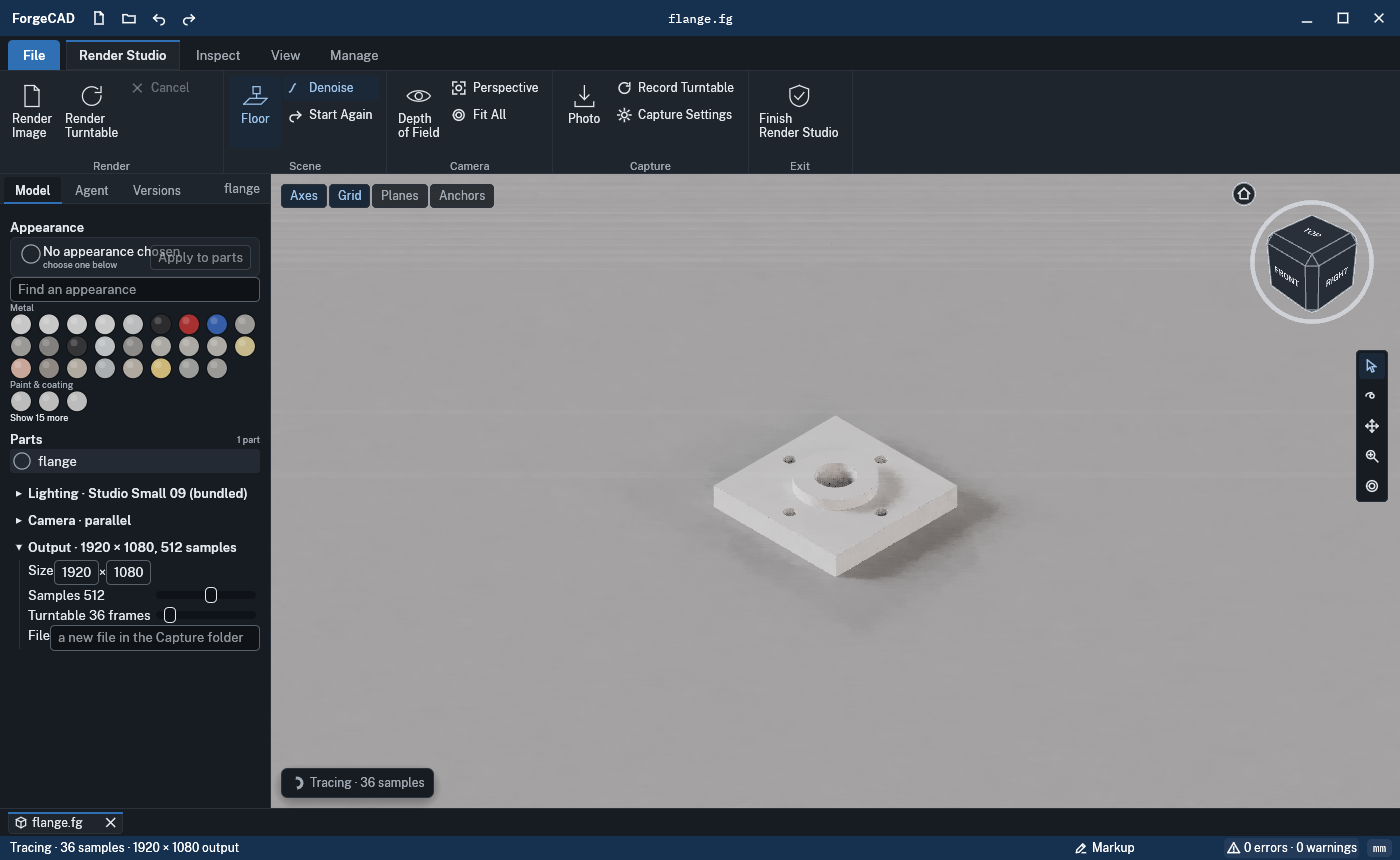
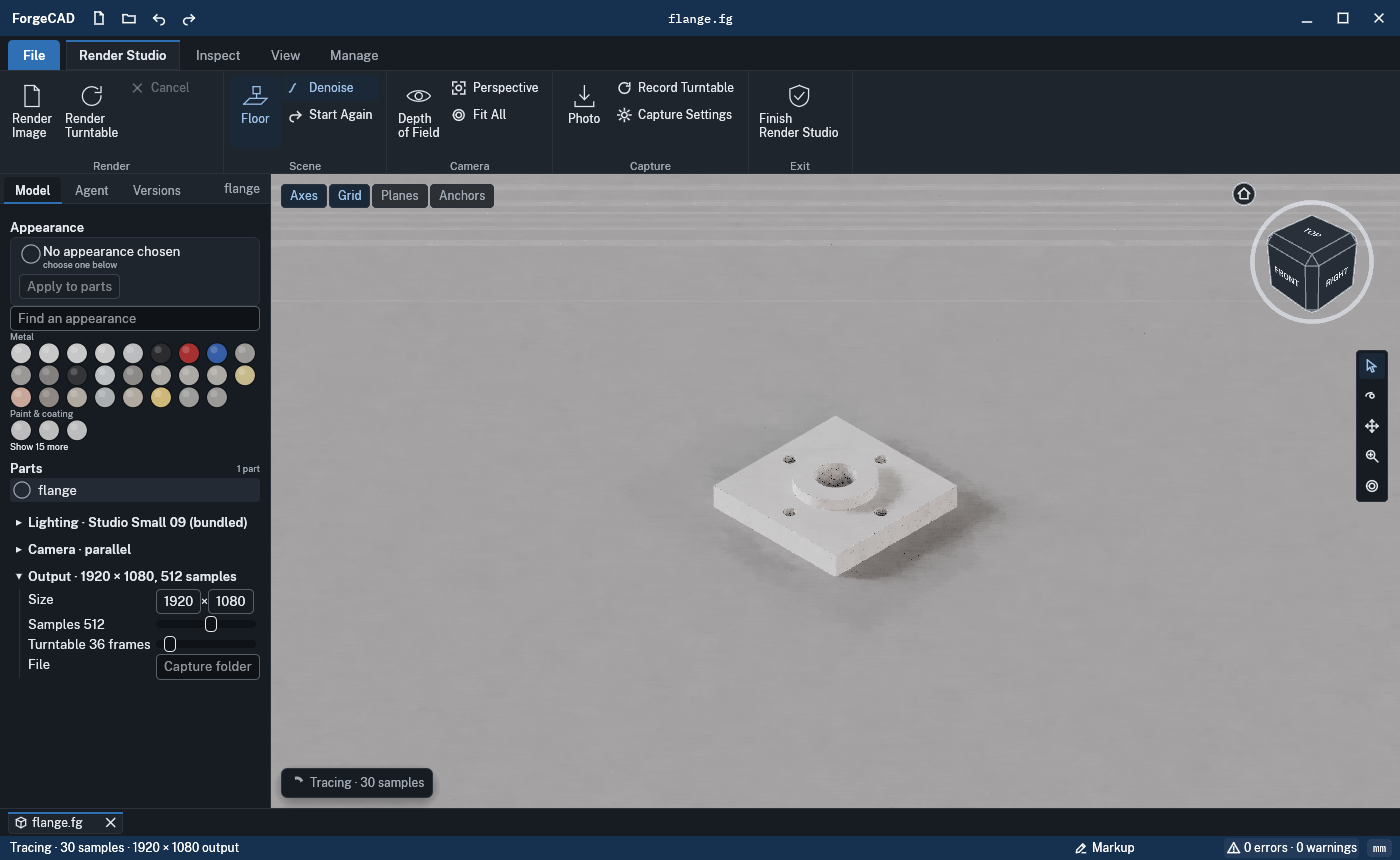
render/studio-polish @67dd85e1 (delta over studio-model 02e52375): Appearance card, Preparing spinner, samples hover, Output labels, live pace grows a quarter at a time; RENDER-STUDIO handoff
Claude-Session: https://claude.ai/code/session_01WJtawwrcJMe9MW7GeYQtHw

Changed region(s): [[0.0, 0.2721, 0.1843, 0.786]]

diff --git a/interface/forge-render/src/shell/studio_env.rs b/interface/forge-render/src/shell/studio_env.rs
@@ -379,9 +379,8 @@ pub(super) fn browser(s: &mut Shell, ui: &mut Ui, r: Rect) -> bool {
                             "Poly Haven HDRIs, CC0; all but the bundled one come from tools/fetch-hdri.sh",
                         );
                     if st.light == lights.len() - 1 {
-                        ui.horizontal(|ui| {
-                            ui.label("File");
-                            ui.text_edit_singleline(&mut st.hdri)
+                        row(ui, "File".into(), |ui| {
+                            ui.add(egui::TextEdit::singleline(&mut st.hdri).desired_width(f32::INFINITY))
                                 .on_hover_text("a Radiance .hdr, equirectangular");
                         });
                     }
@@ -436,8 +435,7 @@ pub(super) fn browser(s: &mut Shell, ui: &mut Ui, r: Rect) -> bool {
 
             let out = format!("Output · {} × {}, {} samples", st.size.0, st.size.1, st.spp);
             let head = fold(ui, s, "studio-fold-output", &out, |ui| {
-                ui.horizontal(|ui| {
-                    ui.label("Size");
+                row(ui, "Size".into(), |ui| {
                     ui.add(egui::DragValue::new(&mut st.size.0).range(16..=8192));
                     ui.label("×");
                     ui.add(egui::DragValue::new(&mut st.size.1).range(16..=8192));
@@ -452,14 +450,15 @@ pub(super) fn browser(s: &mut Shell, ui: &mut Ui, r: Rect) -> bool {
                 row(ui, format!("Turntable {} frames", st.frames), |ui| {
                     ui.add(egui::Slider::new(&mut st.frames, 4..=360).show_value(false));
                 });
-                ui.horizontal(|ui| {
-                    ui.label("File");
+                row(ui, "File".into(), |ui| {
                     ui.add(
-                        egui::TextEdit::singleline(&mut st.out).hint_text("a new file in the Capture folder"),
+                        egui::TextEdit::singleline(&mut st.out)
+                            .hint_text("Capture folder")
+                            .desired_width(f32::INFINITY),
                     )
                     .on_hover_text(
-                        "Empty: <document>-render-<time>.png in the Capture settings' folder (else the \
-                         document's). A name alone goes there too.",
+                        "Empty: a new file, <document>-render-<time>.png, in the Capture settings' folder \
+                         (else the document's). A name alone goes there too.",
                     );
                 });
             });
@@ -641,7 +640,9 @@ pub(super) fn draw(s: &mut Shell, ui: &mut Ui, view: Rect) -> bool {
     let t = s.theme;
     let st = &s.studio;
     let text = live_words(st);
-    let busy = refining(st);
+    // a working state (preparing, starting again, refining) has the spinner
+    let busy = refining(st) || (st.samples < READABLE && st.rendering.is_none());
+    let refines = refining(st);
     // its own layer over the view, so the pointer reaches it (the view's takes it otherwise)
     let target = st.target;
     egui::Area::new(egui::Id::unique("studio-live-badge"))
@@ -660,14 +661,19 @@ pub(super) fn draw(s: &mut Shell, ui: &mut Ui, view: Rect) -> bool {
                     }
                 })
                 .response;
-            if busy {
+            if refines {
                 // (a frame's own response doesn't sense the pointer)
                 ui.interact(
                     r.rect,
                     egui::Id::unique("studio-live-badge-hover"),
                     egui::Sense::hover(),
                 )
-                .on_hover_text(format!("Refines until {target} samples; edits restart it"));
+                .on_hover_text(format!(
+                    "The live view refines until {target} samples; edits restart it. A \
+                         render uses Output's samples."
+                ));
+            }
+            if busy {
                 ui.ctx().request_repaint();
             }
         });

diff --git a/interface/forge-render/src/shell/studio_model.rs b/interface/forge-render/src/shell/studio_model.rs
@@ -304,36 +304,49 @@ pub(super) fn ui(ui: &mut Ui, s: &Shell, st: &mut StudioUi, lib: &Appearances) {
         .stroke(Stroke::new(1.0, t.line))
         .corner_radius(6.0)
         .inner_margin(vec2(8.0, 6.0));
+    // the words wrap beside the button, or (a narrow panel) the button goes below them
+    let narrow = ui.available_width() < 300.0;
     frame.show(ui, |ui| {
+        ui.set_width(ui.available_width());
+        let name = brush.map_or("No appearance chosen", |a| a.name.as_str());
+        let hint = if st.painting {
+            "click parts in the view · Esc stops"
+        } else if brush.is_some() {
+            "Apply to parts, then click them in the view"
+        } else {
+            "choose one below"
+        };
+        let words = |ui: &mut Ui| {
+            ui.vertical(|ui| {
+                ui.add(egui::Label::new(RichText::new(name).color(t.ink)).wrap());
+                ui.add(egui::Label::new(RichText::new(hint).small().color(t.ink2)).wrap());
+            });
+        };
+        let mut button = |ui: &mut Ui| {
+            let r = ui.add_enabled(
+                brush.is_some(),
+                egui::Button::new("Apply to parts").selected(st.painting),
+            );
+            if r.clicked() {
+                st.painting = !st.painting;
+            }
+        };
         ui.horizontal(|ui| {
             let (r, _) = ui.allocate_exact_size(vec2(CHIP + 8.0, CHIP + 4.0), Sense::hover());
             chip(ui, r.center(), CHIP / 2.0 + 1.0, brush, t.ink2);
-            ui.vertical(|ui| {
-                ui.label(
-                    RichText::new(brush.map_or("No appearance chosen", |a| a.name.as_str())).color(t.ink),
-                );
-                ui.label(
-                    RichText::new(if st.painting {
-                        "click parts in the view · Esc stops"
-                    } else if brush.is_some() {
-                        "Apply to parts, then click them in the view"
-                    } else {
-                        "choose one below"
-                    })
-                    .small()
-                    .color(t.ink2),
-                );
-            });
-            ui.with_layout(egui::Layout::right_to_left(egui::Align::Center), |ui| {
-                let r = ui.add_enabled(
-                    brush.is_some(),
-                    egui::Button::new("Apply to parts").selected(st.painting),
-                );
-                if r.clicked() {
-                    st.painting = !st.painting;
-                }
-            });
+            if narrow {
+                words(ui);
+            } else {
+                ui.with_layout(egui::Layout::right_to_left(egui::Align::Center), |ui| {
+                    button(ui);
+                    ui.with_layout(egui::Layout::left_to_right(egui::Align::Center), words);
+                });
+            }
         });
+        if narrow {
+            ui.add_space(4.0);
+            button(ui);
+        }
     });
     let mut pick = None;
     palette_ui(ui, s, st, lib, &mut pick);

diff --git a/interface/forge-render/src/studio/live.rs b/interface/forge-render/src/studio/live.rs
@@ -47,8 +47,10 @@ impl Pace {
     pub fn fit_cost(&mut self, ms: f64, rows: u32) {
         let per_row = (ms / rows.max(1) as f64).max(1e-6);
         let fit = (self.budget_ms / per_row) as u32;
-        // no more than doubling at once: a measure taken while the GPU was idle overstates it
-        self.rows = (fit.min(self.rows.saturating_mul(2)) / 8 * 8).clamp(8, MOST_ROWS);
+        // growing no more than a quarter (or a band) at once: a measure taken while the GPU was
+        // idle overstates it, and a frame that overshoots is a hitch
+        let most = (self.rows + self.rows / 4).max(self.rows + 8);
+        self.rows = (fit.min(most) / 8 * 8).clamp(8, MOST_ROWS);
     }
 }
 
@@ -500,10 +502,10 @@ mod tests {
         // a GPU at 0.01 ms a row, measured 20 ms late whatever the rows (as a page's queue says)
         let took = |rows: u32| 20.0 + 0.01 * rows as f64;
         let mut p = Pace::default();
-        // it grows no more than doubling at once, to about the budget's 800 rows past the floor
+        // it grows no more than a quarter at once, to about the budget's 800 rows past the floor
         p.fit(took(64), 64);
-        assert_eq!(p.rows, 128);
-        for _ in 0..12 {
+        assert_eq!(p.rows, 80);
+        for _ in 0..24 {
             let r = p.rows;
             p.fit(took(r), r);
         }

diff --git a/research/handoff/RENDER-STUDIO.md b/research/handoff/RENDER-STUDIO.md
@@ -1,0 +1,81 @@
+# RENDER-STUDIO handoff
+
+The Render Studio (`interface/forge-render`: `gui_studio.rs`, `shell/studio_env.rs`,
+`shell/studio_model.rs`, `studio/`) and capture work from session RENDER-STUDIO, at the
+wind-down (2026-11-25).
+
+## Branches
+
+| branch | head | state |
+|---|---|---|
+| `render/studio-model` | 02e52375 | in train 8 (merge-train/8), TRAIN-CONDUCTOR keeping that sha. PRE-VERIFY GREEN on main c135b274 (tools/preverify @35d9ccbe; its record checks clean of compile errors), UX-LEAD OK. Its later commit 0f230871 (this file) rides with studio-polish. |
+| `render/studio-polish` | the commit carrying this line | for train 9: 31d5b85c (UX-LEAD's P2/P3 items from the 11-13 shots, UX-LEAD OK on 31d5b85c) with render/studio-model (0f230871, this file) merged in. Pre-verify with /tmp/pv @13d78f06 on this head; its line goes to TRAIN-CONDUCTOR. |
+| `render/studio-model-t7fix` | c69ea889 | landed in train 7 (main c135b274). |
+| `render/nickel` | 1fe0102a | landed in train 5. |
+| `render/studio`, `-2`, `-3`, `-ui` | | in main (trains 5 and earlier); nothing to merge. |
+
+## What train 8 brings (render/studio-model since train 7)
+
+- The live trace takes a budget of the GPU a frame: a sample is traced a band of rows at a time;
+  the picture is denoised and shown at 8, 16, 32, 64 samples, then every 64, the denoise also in
+  bands. Natively the rows are fitted to 8 ms from the band's GPU time
+  (`on_submitted_work_done`, less the least measured); in the browser from the page's frame times
+  (two probe frames in 16, fitted once a 16, growth capped at 1.25x, between h/8 and h rows a frame).
+  Traced frame here (lavapipe): median 23-28 ms vs 16-19 stopped (was ~230 ms).
+- The badge over the view says it's still refining: "Tracing · N samples" with ux::loading's spinner;
+  hover "Refines until N samples; edits restart it"; its own layer so the pointer reaches it.
+- Renders go where captures go (`<document>-render-<time>.png`), "Wrote PATH"; the recording pill
+  says Cancel and Esc.
+- Tests: `the_live_trace_keeps_studio_frames_within_budget` (release), `web/tests/studio_live.cjs`
+  (in CI beside studio.cjs), the click-frame test measured against a plain frame (software
+  adapters by name/DeviceType::Cpu), the flat-frame lib test as the fastest of 30 frames, the file's
+  GPU tests one at a time (`one_at_a_time`), `shots_for_ux` (STUDIO_UX_SHOTS=DIR).
+- research/render/studio/11-13 shots.
+
+## Not done / next steps
+
+1. `render/studio-polish` into train 9 (UX OK; its pre-verify line is with TRAIN-CONDUCTOR, or
+   re-run it if that's missing). Its items:
+   - P2: the Appearance card's words wrapped beside Apply to parts, or the button below them in a
+     panel under 300 px.
+   - P3: spinner on Preparing / Starting again.
+   - P3: hover "The live view refines until N samples; edits restart it. A render uses Output's
+     samples."
+   - P3: Output's Size/File and Lighting's File in the label column; File's hint shortened to
+     "Capture folder" (the long one was cut off at that width: UX-LEAD may prefer the field on its
+     own line instead).
+   - P3, §2 (NOT done, reverted): the flange fills ~20% of the view on entering the Studio. A
+     Fit All on entering made it ~65% but overrode the 3/4 entry framing
+     (`gui_env.rs::env_frame_view`, `frame::frame`, fill 0.7), failing
+     tests/environments.rs `each_document_keeps_the_environment_it_was_left_in`. The entry framing
+     itself asks for 0.7 of the view, so why the Studio shows ~20% is the open question: check the
+     subject box (`scene.shown_box()`) and the parallel camera's field after `cam.parallel = ..`
+     in `env_frame_view`, and whether the Studio's trace view (`studio::View` from the camera)
+     matches the raster's.
+2. From the Model tab's review (UX P2, earlier): outline marks for selections of up to 256
+   entities over the trace (today the chosen parts are lit see-through through the ghost pass).
+3. A final render refining in the view (today a render runs in the background with its card and the
+   live view paused).
+4. ffmpeg for recording: macOS stays UNKNOWN until David picks a source (Linux/Windows are pinned in
+   tools/ffmpeg/PIN; not Martin Riedl's nonfree builds); the real-download install test is the
+   coordinator's to run on David's side.
+5. CAM-UI's sim readout (`gui_camsim_panel.rs`, truncated on purpose) is flagged as clipped by
+   BUTTON-AUDITOR's judge: theirs to settle (CAM-UI / BUTTON-AUDITOR).
+
+## Risks
+
+- The browser's pace is a heuristic on frame times. It is bounded (never more than a sample a
+  frame, a sample in at most 8 frames) but on an unusual page (frames throttled in a background tab,
+  a very fast GPU with slow CPU) it may sit at either bound. `studio_live.cjs` watches it on
+  CI's software adapter only.
+- Natively, the pace trusts `on_submitted_work_done` after a non-blocking poll; a driver that
+  reports late would read as slow and keep the trace small (safe, slower to clean up).
+- Timing tests on shared runners: the budget test (p90 vs median, 30 ms or a quarter of a slow
+  frame), the click frame (plain + 20 ms; 100 ms only on hardware GPUs) and the flat-frame lib test
+  are written to be robust, but a heavily loaded box can still produce outliers. Their failure
+  messages name both numbers.
+- `shell/capture.rs`'s Cancel discards a video but keeps PNG frames already written; the hover says
+  so.
+- The squash-merge history: when merging main into a branch, files main took from your own train
+  head can conflict add/add; check main's copy equals your train head before resolving to your
+  side (as done for c135b274).

diff --git a/research/render/studio/README.md b/research/render/studio/README.md
@@ -31,9 +31,11 @@ alone (render.png) goes beside the document.
 - 11: the live view between its denoise steps. It traces a band of rows a frame and shows the
   picture at 8, 16, 32, 64 samples then every 64, so on a slow GPU the picture sits still a while.
   The badge says it's still refining ("Tracing · N samples", the count traced, with a spinner;
-  hover: "Refines until N samples; edits restart it") and goes back to "N samples · denoised" when
-  done.
-- 12: Output open, the File field empty with its hint "a new file in the Capture folder": a render
+  hover: "The live view refines until N samples; edits restart it. A render uses Output's
+  samples.") and goes back to "N samples · denoised" when done; "Preparing" and "Starting again…"
+  have the spinner too.
+- 12: Output open, its labels in one column, the File field empty with its hint "Capture folder"
+  (hover: a new file, `<document>-render-<time>.png`, there; a name alone goes there too): a render
   goes there as `<document>-render-<time>.png` (the document's folder if Capture has none), and the
   status says "Wrote PATH".
 - 13: a recording under way: its pill with Cancel and "Esc" beside it (Cancel discards a video;
